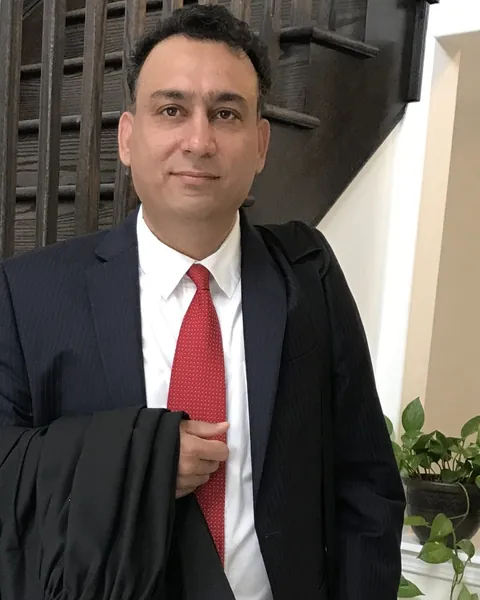
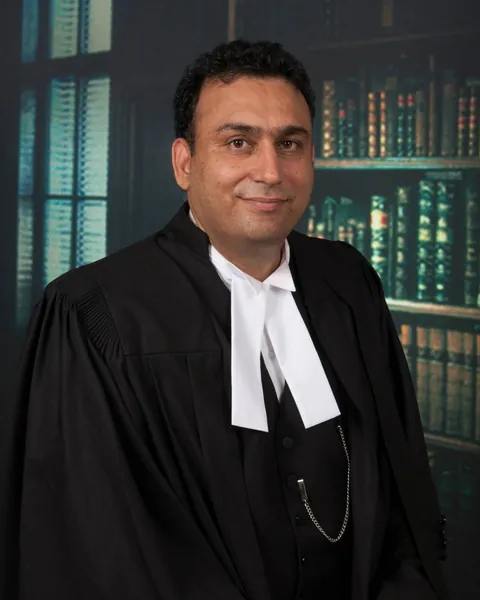
Update Maks Law Firm design preview

diff --git a/meet-the-team/index.html b/meet-the-team/index.html
@@ -75,7 +75,7 @@
 <div class="phero__main"><p class="eyebrow eyebrow--light hero-in" style="--d:1">Our team</p><h1 class="hero-in" style="--d:2">The lawyers and team <em>behind your file</em></h1><p class="answer hero-in" style="--d:3">Maks Law Firm’s team in Mississauga is led by founder Murad Ali Khan, Barrister & Solicitor. It includes Ontario lawyers and a licensed paralegal, a Regulated Canadian Immigration Consultant, real estate conveyancers, office staff and a legal research and drafting team.</p></div>
 
 </div></div><div class="phero__rule" aria-hidden="true"></div></section><section class="section"><div class="wrap"><div class="founder founder--pair" id="murad-ali-khan">
-<div class="person__img reveal-img"><img src="../assets/images/team-murad-ali-khan-800.webp" srcset="../assets/images/team-murad-ali-khan-480.webp 480w, ../assets/images/team-murad-ali-khan-800.webp 800w" sizes="(max-width: 960px) 100vw, 40vw" width="800" height="1000" alt="Portrait of Murad Ali Khan, Barrister and Solicitor, founder of Maks Law Firm" fetchpriority="high" decoding="async"></div>
+<div class="person__img reveal-img"><img src="../assets/images/team-murad-ali-khan-800.webp" srcset="../assets/images/team-murad-ali-khan-480.webp 480w, ../assets/images/team-murad-ali-khan-800.webp 800w" sizes="(max-width: 960px) 100vw, 40vw" width="800" height="1000" alt="Portrait of Murad Ali Khan, Barrister and Solicitor, founder of Maks Law Firm, in barrister’s robes" fetchpriority="high" decoding="async"></div>
 <div class="reveal"><p class="eyebrow">Founder · Barrister &amp; Solicitor</p><h2>Murad Ali Khan</h2>
 <p class="lead">Murad Ali Khan (MAK) is a barrister and solicitor licensed by the Law Society of Ontario, practising in Mississauga across criminal law, civil litigation, family law, real estate, immigration, business law and wills and estates.</p>
 <p>He earned his Juris Doctor (J.D.) at the University of Windsor Faculty of Law. Before law school he completed a Master of Science in Economics and Statistics at the University of Alberta, then worked with Alberta’s Solicitor General in Edmonton and later in various roles with the federal government in Ottawa. At Windsor Law he received the First Dean Elman Scholarship to work with the United Nations on an international development project.</p>
